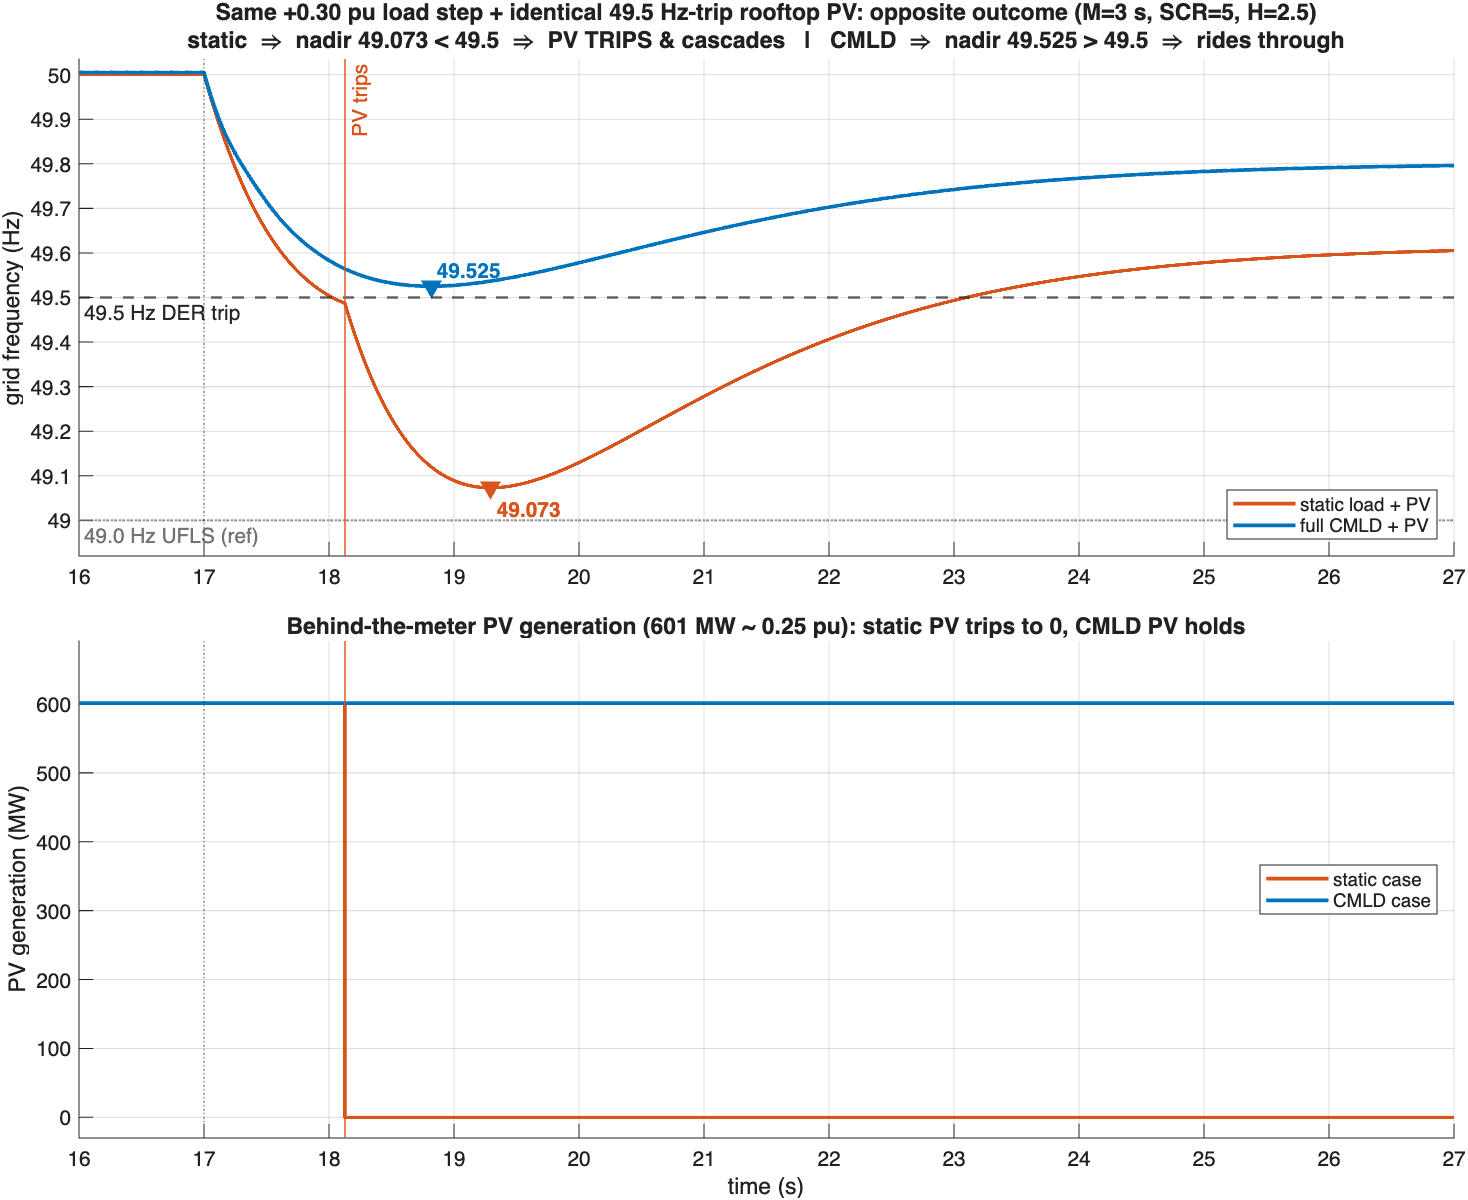
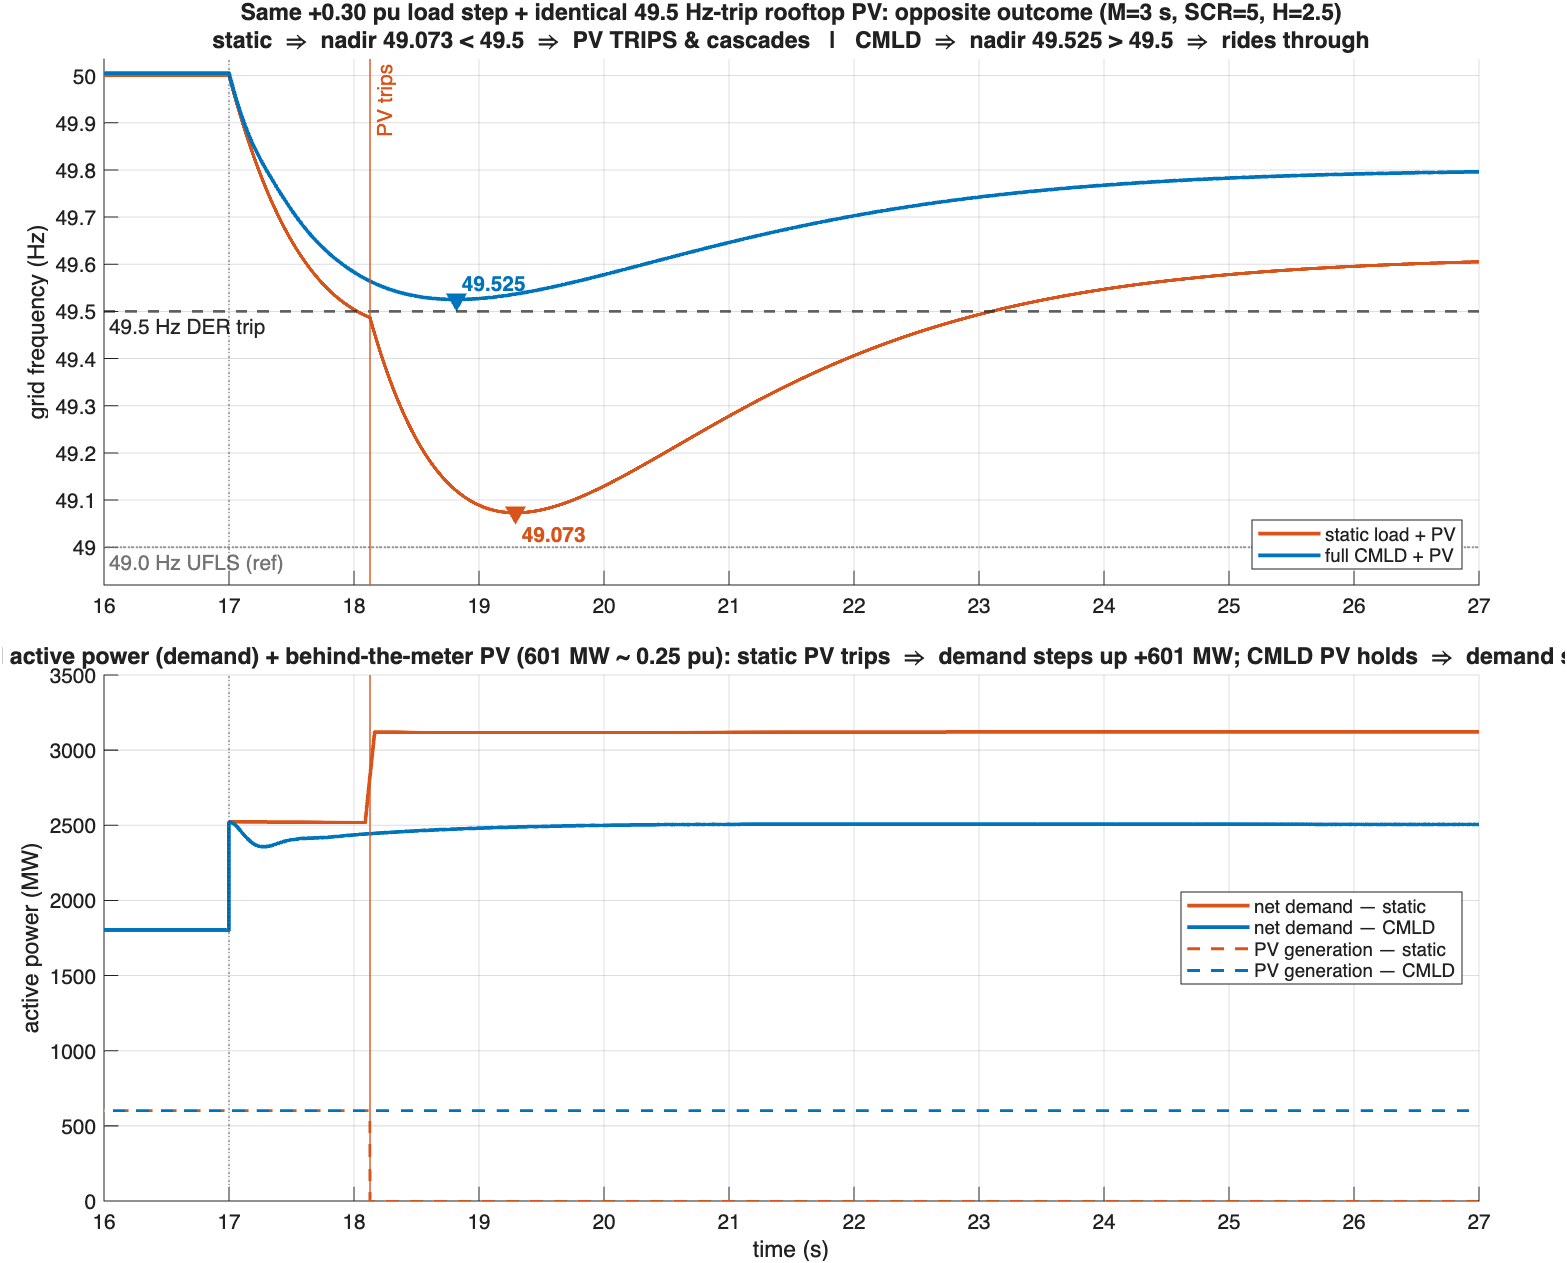
pv_trip: SA high-penetration scenario + freq/active-power figure convention
Figure convention: pv_figure2 now pairs frequency with LOAD active power
(demand = net load + disturbance) and overlays behind-the-meter PV generation
(dashed) -- so the PV-trip demand step-up that drives the frequency is visible
(per reducing_cmld's motivating_figure convention). Regenerated the Phase-2
figure. pv_figure2 takes an optional filename tag.

SA scenario (pv_trip('SA'), phase_sa + pv_figure_sa): South Australia-like high
instantaneous DER penetration. Motivated by AEMO/SA records -- rooftop solar met
101% of SA demand (Dec 2023); a credible fault can trip >500 MW / up to half the
state's distributed PV. Holds the knife-edge dP=0.30 and sweeps the PV trip block
{0.1..0.5 pu}, reusing the Phase-1 gross=P_W calibration (P_pv-independent).

Result: the consequence of the load-model error scales with penetration. Static
trips at every penetration; nadir plunges 49.325 (0.1pu) -> 48.637 (0.5pu),
crossing the 49 Hz UFLS line at ~0.3pu. CMLD rides through flat ~49.52 for all.
So at SA-scale DER a static model predicts a cascade into UFLS load-shedding that
the CMLD says never happens.

Figures -> phase_sa/pv_trip_sa_headline_pv50_dp0.30.png (freq+demand at 0.5pu),
phase_sa/pv_sa_scaling_dp0.30.png (nadir vs penetration).

diff --git a/studies/pv_trip/pv_trip.m b/studies/pv_trip/pv_trip.m
@@ -40,6 +40,7 @@ ip.addParameter('DPstar',[]);    % Phase 2: knife-edge dP (default: pick from a 
 ip.addParameter('P_pv',[]);      % Phase 2: PV penetration (W); default 0.25*P_W
 ip.addParameter('t_trip_delay',0.1);  % Phase 2: DER trip delay (s)
 ip.addParameter('DP2',[0.28 0.30 0.32]); % Phase 2: focused knife-edge sweep
+ip.addParameter('PVfrac',[0.10 0.20 0.30 0.40 0.50]); % SA: DER trip-block penetrations (pu)
 ip.parse(varargin{:}); o = ip.Results;
 
 sc   = fileparts(mfilename('fullpath'));           % studies/pv_trip
@@ -51,7 +52,8 @@ end
 switch upper(char(phase))
     case 'P1', T = phase1(o, sc, repo);
     case 'P2', T = phase2(o, sc, repo);
-    otherwise, error('pv_trip:phase','unknown phase "%s" (P1|P2)', phase);
+    case 'SA', T = phase_sa(o, sc, repo);
+    otherwise, error('pv_trip:phase','unknown phase "%s" (P1|P2|SA)', phase);
 end
 end
 
@@ -211,6 +213,56 @@ fprintf('  ASSERT ok: static trips (nadir %.3f < %.1f), CMLD rides through (nadi
 % ----- headline figure ------------------------------------------------------
 pv_figure2(tr.stat, tr.cmld, ft, figdir);
 fprintf('phase2 -> %s\nPV_TRIP_P2_OK\n', figdir);
+end
+
+% ============================ SOUTH-AUSTRALIA SCENARIO ====================
+function T = phase_sa(o, sc, repo) %#ok<INUSD>
+% "South Australia-like": very high instantaneous rooftop-PV penetration + a
+% large frequency-triggered DER trip block. Motivated by AEMO/SA records --
+% rooftop solar has met >100% of SA demand (101%, 31 Dec 2023; min residual
+% demand -927 MW, Sep 2024), and a credible fault can trip up to ~half the
+% state's distributed PV (>500 MW; ~40% of inverters do not ride through). Holds
+% the knife-edge disturbance (dP=0.30) and SWEEPS the PV penetration (the trip
+% block P_pv) to show how the CONSEQUENCE of the load-model error scales: at SA
+% penetrations a static-model-induced trip drives frequency deep past the 49 Hz
+% UFLS line, while the CMLD rides through at every penetration.
+mdir = fullfile(sc,'models');
+figdir = fullfile(sc,'phase_sa'); if ~isfolder(figdir), mkdir(figdir); end
+cmldPath = fullfile(mdir,'pv_cmld.slx'); statPath = fullfile(mdir,'pv_static.slx');
+assert(isfile(cmldPath)&&isfile(statPath), 'need pv_cmld.slx + pv_static.slx');
+Ptarget = sb_grid_sim.default_params('full_cmld').scale.P_W;
+ft = o.f_trip; tdel = o.t_trip_delay;
+dp = 0.30; if ~isempty(o.DPstar), dp = o.DPstar; end   % knife-edge disturbance
+
+% gross(electrical) is pinned to P_W independent of P_pv, so reuse the Phase-1
+% calibration (LFm, CapC) -- both pin gross=P_W.
+p1 = fullfile(sc,'phase1_threshold','pv_phase1.mat');
+assert(isfile(p1), 'run Phase 1 first (need pv_phase1.mat for the gross=P_W calibration)');
+S = load(p1); LFm = S.LFm; CapC = S.CapC;
+fprintf('[SA] reuse Phase-1 calibration: LFm=%.4f CapC=%.3g (gross=P_W)\n', LFm, CapC);
+mv_cmld0 = compose_full(o.phi,o.H,o.Rr,[],LFm);
+mv_stat0 = struct('CapC',CapC);
+
+fprintf('\n==== pv_trip SA SCENARIO: high-penetration DER trip (dP=%+.2f, stress M=%g SCR=%g H=%.1f) ====\n', ...
+        dp, o.M, o.SCR, o.H);
+PV = o.PVfrac(:)'; n = numel(PV);
+rows = cell(n,6); runs = struct('ppv',{},'stat',{},'cmld',{});
+for i = 1:n
+    ppv = PV(i)*Ptarget; addpv = @(mv) addpvfields(mv, ppv, ft, tdel);
+    rs = runfull(mkparams('static',    statPath, o, dp), addpv(mv_stat0));
+    rc = runfull(mkparams('full_cmld', cmldPath, o, dp), addpv(mv_cmld0));
+    v  = split_verdict(rs.tripped, rc.tripped);
+    fprintf('  P_pv=%.2f pu (%.0f MW) | static nadir %.3f trip=%d | CMLD nadir %.3f trip=%d -> %s\n', ...
+            PV(i), ppv/1e6, rs.metrics.nadir, rs.tripped, rc.metrics.nadir, rc.tripped, v);
+    rows(i,:) = {PV(i), ppv/1e6, rs.metrics.nadir, rc.metrics.nadir, rs.tripped, rc.tripped};
+    runs(i) = struct('ppv',ppv,'stat',rs,'cmld',rc); %#ok<AGROW>
+end
+T = cell2table(rows,'VariableNames',{'pv_frac','pv_MW','nadir_static','nadir_cmld','trip_static','trip_cmld'});
+save(fullfile(figdir,'pv_sa.mat'),'T','runs','dp','LFm','CapC','o');
+fprintf('\n===== SA summary =====\n'); disp(T);
+
+pv_figure_sa(runs, T, ft, Ptarget, dp, figdir);
+fprintf('phase_sa -> %s\nPV_TRIP_SA_OK\n', figdir);
 end
 
 % ---- full run that also captures the PV signals (simulate doesn't expose them) --

diff --git a/studies/pv_trip/pv_figure2.m b/studies/pv_trip/pv_figure2.m
@@ -1,24 +1,28 @@
-function pv_figure2(stat, cmld, f_trip, figdir)
+function pv_figure2(stat, cmld, f_trip, figdir, tag)
 %PV_FIGURE2  Phase-2 headline: identical frequency-tripped rooftop PV in both a
-% static and a full-CMLD load model. At the same load step the static's nadir
-% crosses the 49.5 Hz DER line -> PV trips -> secondary cascade toward the 49 Hz
-% UFLS line; the CMLD stays above 49.5 -> PV rides through. Two panels:
-%   (1) grid frequency, with the 49.5 (DER trip) + 49.0 (UFLS ref) lines, nadirs,
-%       and the PV-trip instant marked.
-%   (2) PV generation: the static case collapses to 0 at the trip; the CMLD holds.
+% static and a full-CMLD load model. Two panels (frequency ALWAYS shown with the
+% active-power decomposition, per the reducing_cmld convention):
+%   (1) grid frequency, with the 49.5 (DER trip) + 49.0 (UFLS ref) lines, the
+%       nadirs, and the PV-trip instant marked.
+%   (2) LOAD active power (demand) = net load drawn from the grid + the
+%       disturbance step, WITH the behind-the-meter PV generation overlaid
+%       (dashed). When the static's PV trips, its PV generation collapses to 0
+%       and the net demand steps UP by P_pv -- the gap that plunges the frequency.
 %
 %   pv_figure2(stat, cmld, f_trip, figdir)  % stat/cmld are runfull() structs
 if nargin < 3 || isempty(f_trip), f_trip = 49.5; end
 if nargin < 4, figdir = fileparts(mfilename('fullpath')); end
+if nargin < 5 || isempty(tag), tag = sprintf('phase2_dp%.2f', cmld.params.disturbance.dist_dP_frac); end
 f_ufls = 49.0;
 td = cmld.td; t0 = td-1;
 dp = cmld.params.disturbance.dist_dP_frac;
 Mg = cmld.params.grid.M; SCRg = cmld.params.grid.SCR;
-P_pv = cmld.params.model_vars.P_pv;
+Pw = cmld.params.scale.P_W; P_pv = cmld.params.model_vars.P_pv;
 ms = stat.metrics; mc = cmld.metrics;
 cS = [.85 .33 .10]; cC = [0 .45 .74];
+sm = @(x) movmean(movmedian(x(:),151),151);   % de-ripple the net-P measurement
 
-fig = figure('Visible','off','Position',[100 100 1000 780],'Color','w');
+fig = figure('Visible','off','Position',[100 100 1000 820],'Color','w');
 try, theme(fig,'light'); catch, end
 tl = tiledlayout(fig,2,1,'TileSpacing','compact','Padding','compact');
 
@@ -46,20 +50,26 @@ title(ax1, sprintf(['Same +%.2f pu load step + identical 49.5 Hz-trip rooftop PV
     'static \\Rightarrow nadir %.3f < 49.5 \\Rightarrow PV TRIPS & cascades   |   CMLD \\Rightarrow nadir %.3f > 49.5 \\Rightarrow rides through'], ...
     dp, Mg, SCRg, ms.nadir, mc.nadir));
 
-% ---- Panel 2: PV generation ----
+% ---- Panel 2: load active power (demand) + behind-the-meter PV generation ----
 ax2 = nexttile(tl); hold(ax2,'on'); grid(ax2,'on'); set(ax2,'Color','w','GridAlpha',0.15);
-plot(ax2, stat.t, stat.pv_active/1e6, 'Color',cS, 'LineWidth',1.8, 'DisplayName','static case');
-plot(ax2, cmld.t, cmld.pv_active/1e6, 'Color',cC, 'LineWidth',1.8, 'DisplayName','CMLD case');
+dPW = dp*Pw;
+Pdem_s = (sm(stat.P) + dPW*(stat.t(:)>=td))/1e6;   % net load + disturbance step (net incl. the PV-trip jump)
+Pdem_c = (sm(cmld.P) + dPW*(cmld.t(:)>=td))/1e6;
+plot(ax2, stat.t, Pdem_s, 'Color',cS, 'LineWidth',1.8, 'DisplayName','net demand — static');
+plot(ax2, cmld.t, Pdem_c, 'Color',cC, 'LineWidth',1.8, 'DisplayName','net demand — CMLD');
+plot(ax2, stat.t, stat.pv_active/1e6, '--', 'Color',cS, 'LineWidth',1.4, 'DisplayName','PV generation — static');
+plot(ax2, cmld.t, cmld.pv_active/1e6, '--', 'Color',cC, 'LineWidth',1.4, 'DisplayName','PV generation — CMLD');
 xline(ax2, td, ':', 'HandleVisibility','off');
 if stat.tripped
     xline(ax2, stat.t_trip, '-', 'Color',cS, 'LineWidth',1.0, 'HandleVisibility','off');
 end
-xlim(ax2,[t0 td+10]); ylim(ax2,[-0.05*P_pv/1e6 1.15*P_pv/1e6]);
-xlabel(ax2,'time (s)'); ylabel(ax2,'PV generation (MW)'); legend(ax2,'Location','east');
-title(ax2, sprintf('Behind-the-meter PV generation (%.0f MW ~ %.2f pu): static PV trips to 0, CMLD PV holds', ...
-    P_pv/1e6, P_pv/cmld.params.scale.P_W));
+xlim(ax2,[t0 td+10]);
+xlabel(ax2,'time (s)'); ylabel(ax2,'active power (MW)'); legend(ax2,'Location','east');
+title(ax2, sprintf(['Load active power (demand) + behind-the-meter PV (%.0f MW ~ %.2f pu): ' ...
+    'static PV trips \\Rightarrow demand steps up +%.0f MW; CMLD PV holds \\Rightarrow demand steady'], ...
+    P_pv/1e6, P_pv/Pw, P_pv/1e6));
 
-out = fullfile(figdir, sprintf('pv_trip_phase2_dp%.2f.png', dp));
+out = fullfile(figdir, sprintf('pv_trip_%s.png', tag));
 exportgraphics(fig, out, 'Resolution',150); close(fig);
 fprintf('  figure -> %s\n', out);
 end

diff --git a/studies/pv_trip/pv_figure_sa.m b/studies/pv_trip/pv_figure_sa.m
@@ -1,0 +1,42 @@
+function pv_figure_sa(runs, T, f_trip, Ptarget, dp, figdir)
+%PV_FIGURE_SA  South-Australia-like scenario figures. Produces:
+%  (1) the headline freq + load-active-power(demand+PV) panels (via pv_figure2)
+%      at the highest DER penetration that still SPLITs (static trips, CMLD
+%      rides) -- the most dramatic legible case;
+%  (2) a scaling summary: post-disturbance nadir vs PV penetration for the
+%      static vs CMLD load model, with the 49.5 Hz DER-trip and 49.0 Hz UFLS
+%      lines -- shows the CONSEQUENCE of the load-model error growing with
+%      penetration (static plunges past UFLS; CMLD rides through flat).
+%
+%   pv_figure_sa(runs, T, f_trip, Ptarget, dp, figdir)
+f_ufls = 49.0; cS = [.85 .33 .10]; cC = [0 .45 .74];
+
+% ---- headline penetration = highest that SPLITs (static trips, CMLD rides) ----
+split = T.trip_static & ~T.trip_cmld;
+if any(split), hi = find(split,1,'last'); else, [~,hi] = max(T.pv_frac); end
+sr = runs(hi).stat; cr = runs(hi).cmld;
+pv_figure2(sr, cr, f_trip, figdir, sprintf('sa_headline_pv%02d_dp%.2f', round(T.pv_frac(hi)*100), dp));
+
+% ---- scaling summary: nadir vs penetration ----
+fig = figure('Visible','off','Position',[100 100 900 560],'Color','w');
+try, theme(fig,'light'); catch, end
+ax = axes(fig); hold(ax,'on'); grid(ax,'on'); set(ax,'Color','w','GridAlpha',0.15);
+pf = T.pv_frac*100;
+plot(ax, pf, T.nadir_static, '-o', 'Color',cS, 'MarkerFaceColor',cS, 'LineWidth',1.8, 'DisplayName','static load + PV');
+plot(ax, pf, T.nadir_cmld,   '-o', 'Color',cC, 'MarkerFaceColor',cC, 'LineWidth',1.8, 'DisplayName','full CMLD + PV');
+yline(ax, f_trip, '--', sprintf('%.1f Hz DER trip',f_trip), 'Color',[.15 .15 .15], ...
+    'LineWidth',1.3, 'LabelHorizontalAlignment','left','HandleVisibility','off');
+yline(ax, f_ufls, ':', sprintf('%.1f Hz UFLS',f_ufls), 'Color',[.45 .45 .45], ...
+    'LineWidth',1.1, 'LabelHorizontalAlignment','left','HandleVisibility','off');
+% shade the trip-fired region for the static (where it dips below the DER line)
+xlabel(ax,'instantaneous DER penetration / trip block (% of P_W)');
+ylabel(ax,'post-disturbance frequency nadir (Hz)');
+legend(ax,'Location','southwest');
+title(ax, sprintf(['South-Australia-like scenario: consequence of the load-model choice scales with DER penetration\n' ...
+    '(same +%.2f pu disturbance; stress corner). Static trips \\Rightarrow deep cascade; CMLD rides through.'], dp));
+ylim(ax, [min([T.nadir_static; f_ufls])-0.15, 50.0]);
+
+out = fullfile(figdir, sprintf('pv_sa_scaling_dp%.2f.png', dp));
+exportgraphics(fig, out, 'Resolution',150); close(fig);
+fprintf('  figure -> %s\n', out);
+end

diff --git a/studies/pv_trip/memory.md b/studies/pv_trip/memory.md
@@ -75,8 +75,33 @@ feeder, real voltage coupling, inverter dynamics, graduated/partial tripping acr
 settings). Current "simple PV" is a frequency-triggered net-load step (+P_pv), latched, all-or-nothing —
 frequency-faithful but omits voltage coupling. See repo-root memory backlog + validating_cmld G2.
 
-**Next:** write `phase2()` in pv_trip.m (calibrate net→P_W both models, verify knife-edge with PV,
-run + headline figure) → `phase2_pvtrip/`. Helpers: `pv_smoke.m`, `pv_diag.m` (debug aids).
+Helpers: `pv_smoke.m`, `pv_diag.m` (debug aids). `runfull()` in pv_trip.m replicates simulate but
+returns the PV signals (pv_active/pv_tripped) — simulate doesn't expose them.
+
+## Figure convention (user, 2026-07-15)
+ALWAYS pair the frequency chart with an active-power chart (like reducing_cmld's motivating_figure).
+For pv_trip: 2 panels — (1) frequency + 49.5/49 lines + trip marker; (2) LOAD active power (demand) =
+net load + disturbance step, WITH behind-the-meter PV generation overlaid (dashed). When the static's
+PV trips, PV gen → 0 and net demand steps UP by P_pv — the gap that plunges frequency. `pv_figure2.m`
+(takes an optional filename `tag`).
+
+## SA SCENARIO (phase 'SA', 2026-07-15) — high-penetration DER trip
+Research: SA rooftop solar met **101% of state demand** (31 Dec 2023); min residual demand −927 MW
+(Sep 2024). AEMO: a credible fault can trip **>500 MW / up to half** the state's distributed PV (~40%
+of inverters don't ride through; only ~35% of post-2022 installs meet AS/NZS4777.2:2020). `phase_sa()`
+holds the knife-edge dP=0.30 and sweeps the PV trip-block penetration {0.1…0.5 pu}. Reuses the Phase-1
+calibration (LFm/CapC pin gross=P_W, **P_pv-independent**, so no recalibration per point — fast).
+**Result — the consequence of the load-model error SCALES with penetration:** static trips at every
+penetration and its nadir plunges 49.325 (0.1 pu) → 48.637 (0.5 pu), crossing the **49 Hz UFLS line
+at ≈0.3 pu**; CMLD rides through flat at ~49.52–49.53 for all. So at SA-scale DER, a static model
+predicts a cascade into UFLS load-shedding that the CMLD says never happens. Figures → `phase_sa/`
+(`pv_trip_sa_headline_pv50_dp0.30.png` freq+demand at 0.5 pu; `pv_sa_scaling_dp0.30.png` nadir vs
+penetration). `pv_sa.mat` gitignored.
+
+## STUDY DELIVERABLES (branch pv-trip, not pushed)
+Phase 1 (`phase1_threshold/`), Phase 2 (`phase2_pvtrip/`), SA (`phase_sa/`). Driver `pv_trip.m`
+(phases P1|P2|SA); figures `pv_figure.m` (P1), `pv_figure2.m` (P2/SA headline), `pv_figure_sa.m`
+(SA scaling). Models `models/pv_cmld.slx`, `models/pv_static.slx`.
 
 ## Locked decisions
 - **Two phases:** Phase 1 = threshold-crossing with the EXISTING reducing_cmld models (no build, fast,